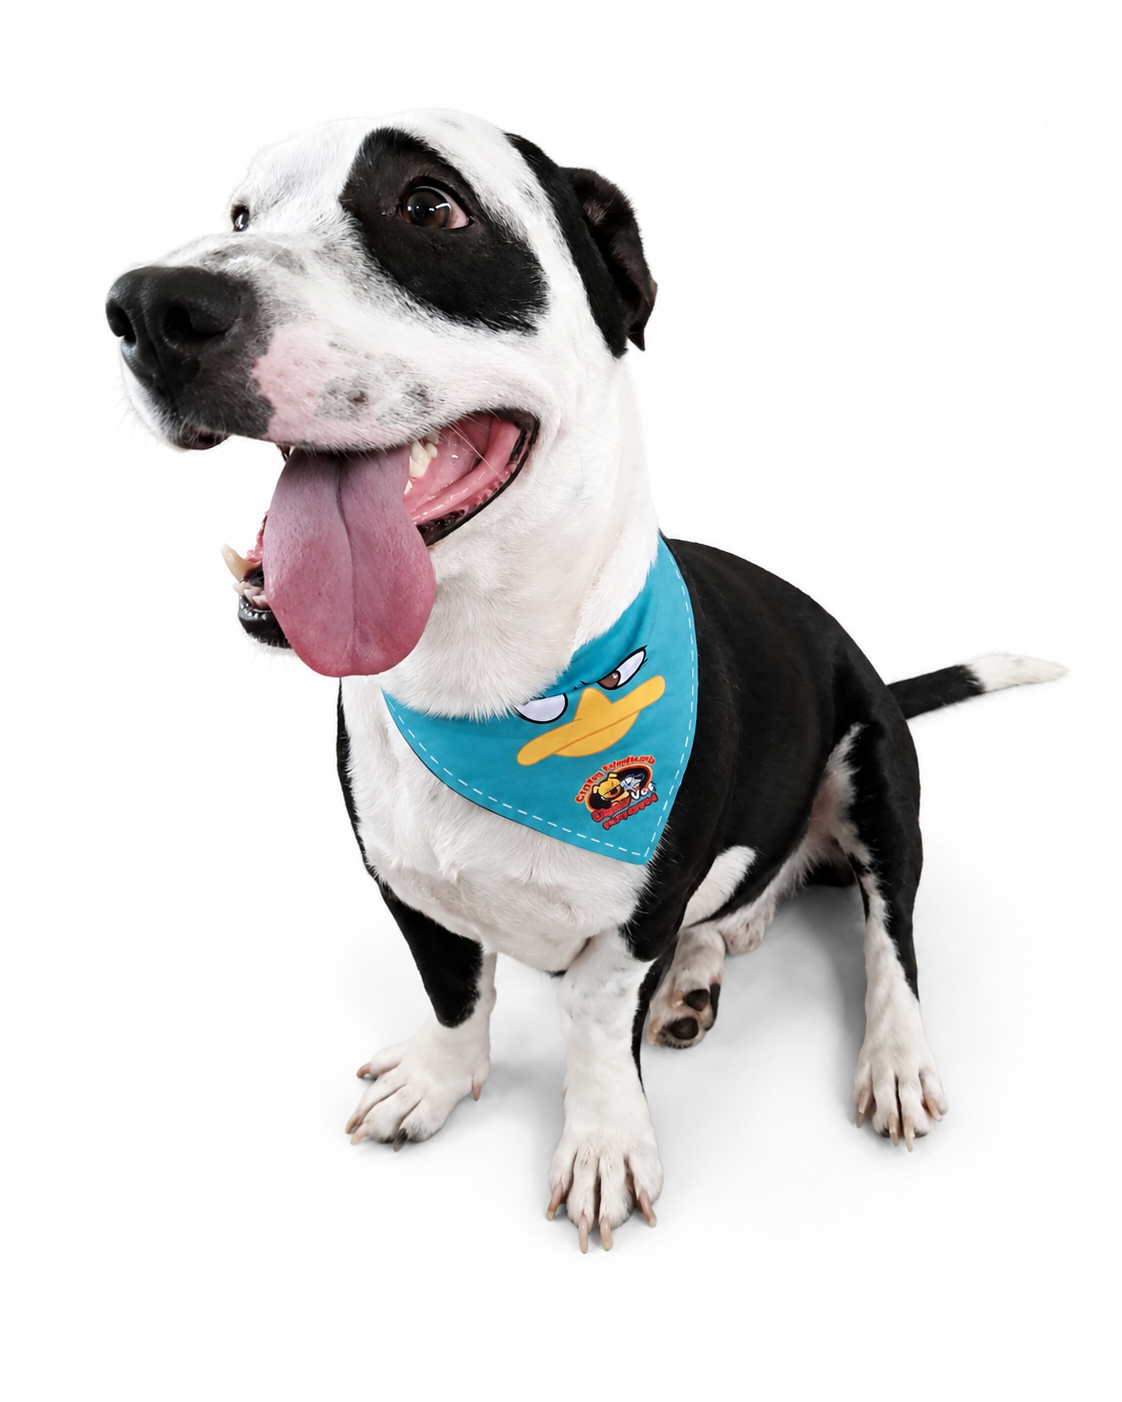
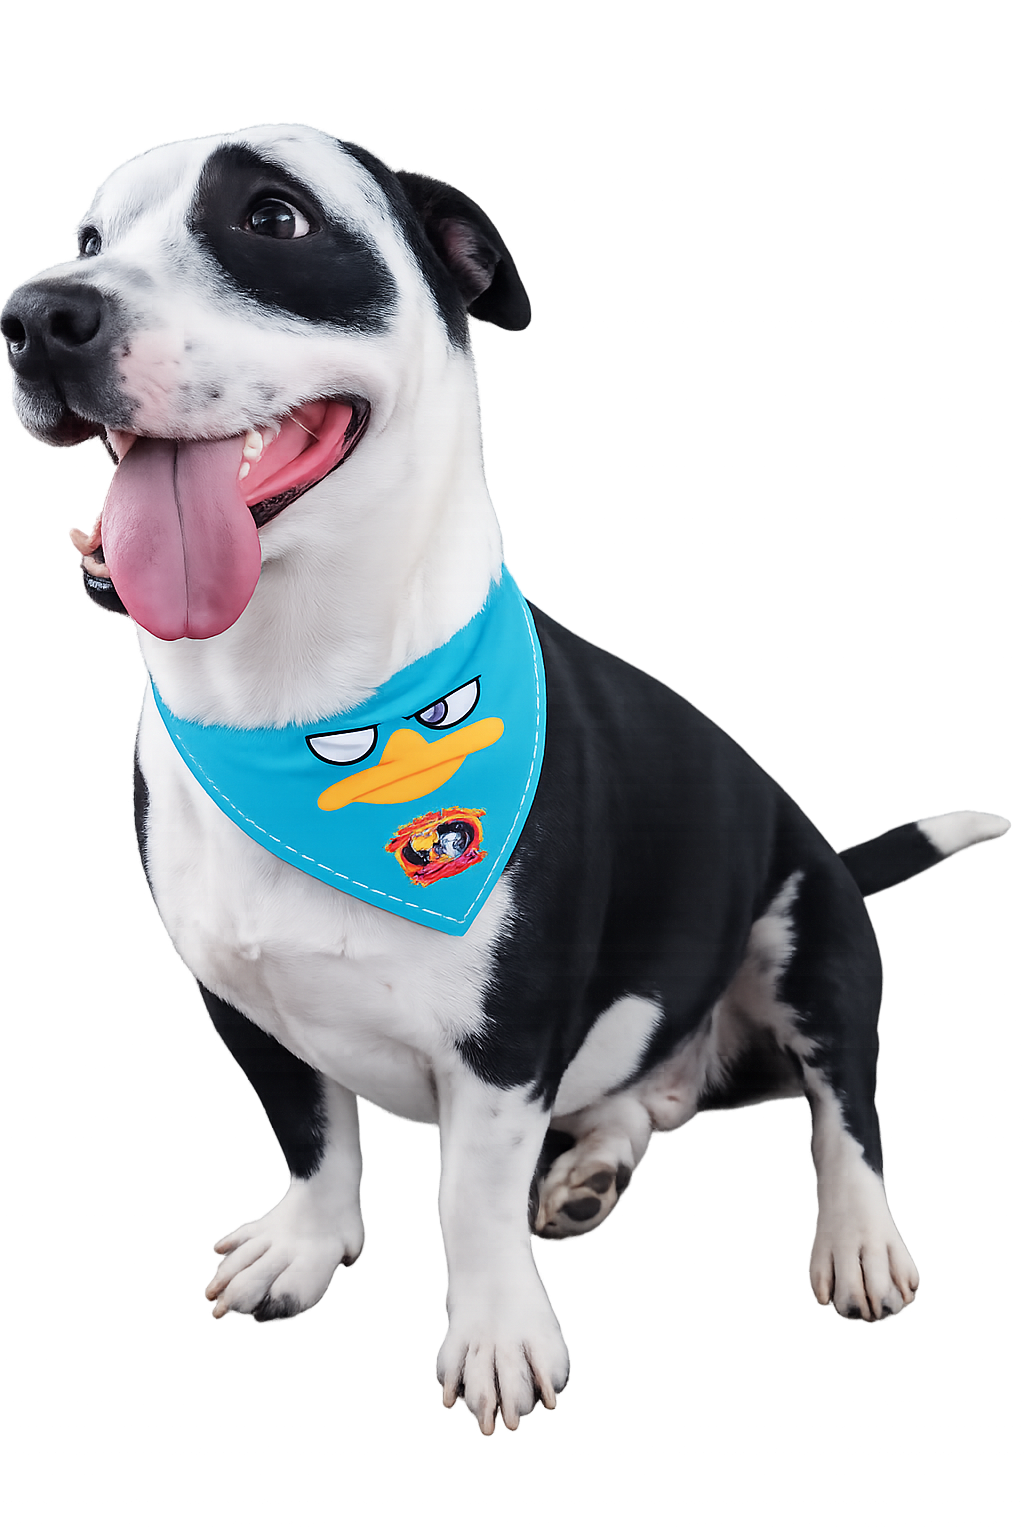
avance

diff --git a/css/style.css b/css/style.css
@@ -404,25 +404,107 @@ body {
   display: flex;
   justify-content: space-between;
   align-items: center;
+  margin-top: 30px;
+
 }
 .promociones-box{
   display: flex;
   justify-content: space-between;
   align-items: center;
+  width: 30%;
+  height: 250px;
+  border-radius: 30px;
+  overflow: hidden;
+
+}
+.promo-verde{
+  background-color: var(--color-verdePrincipal);
+
+}
+.promo-crema{
+  background-color: #F1E7D2;
+}
+.promo-menta{
+  background-color: #CED7C1;
+}
+
+.btn-promociones{
+  background-color: #CED8C2;
+  color: #ffffff;
+  border: none;
+  padding: 10px 20px;
+  border-radius: 30px;
+  font-weight: bold;
+  color: var(--color-verdePrincipal);
+  font-size: 15px;
+}
+.btn-promociones:hover{
+  background-color: #a1f0cd;
+  color: #ffffff;
+  border: none;
+  padding: 10px 20px;
+  border-radius: 30px;
+  font-weight: bold;
+  color: var(--color-verdePrincipal);
+  font-size: 15px;
+  transition: all 0.3 ease;
 }
 
 .descripcion-promociones{
   display: flex;
   flex-direction: column;
-  justify-content: space-between;
+  align-items: center;
+  justify-content: center;
+  padding: 20px 20px 20px 20px;
+}
+.imagen-promociones{
+  display: flex;
+  justify-content: center;
+  align-items: center;
+  height: 100%;
+  flex: 1;
 }
 .imagen-promociones img{
-  width: 400px;
-  height: 400px;
+  max-width: 100%;
+  max-height: 100%;
+  width: auto;
+  height: auto;
   object-fit: contain;
   
-  
 }
+.descripcion-promociones h2{
+  color: white;
+  font-size: 20px;
+  font-weight: bold;
+  margin-bottom: 10px;
+}
+.descripcion-promociones p{
+  color: white;
+  font-size: 20px;
+  font-weight: bold;
+  margin-bottom: 10px;
+}
+
+
+
+
+
+
+
+
+
+
+
+
+
+
+
+
+
+
+
+
+
 
 
 
@@ -538,6 +620,7 @@ body {
   background: #fff;
   border-radius: 6px;
   padding: 4px;
+
 }
 
 /* =====================================

diff --git a/index.html b/index.html
@@ -200,18 +200,18 @@
         </div>
 
         <div class="contenedor-promociones">
-            <div class="promociones-box">
+            <div class="promociones-box promo-verde">
                 <div class="descripcion-promociones">
                     <h2>Alimentos de calidad</h2>
                     <p>Para cada etapa de su vida</p>
                     <button class="btn-promociones">Ver productos</button>
                 </div>
                 <div class="imagen-promociones">
-                    <img src="imagenes/comidas-varias.jpeg" alt="comida varias">
+                    <img src="imagenes/comidas-varias.png" alt="comida varias">
                 </div>
             </div>
 
-            <div class="promociones-box">
+            <div class="promociones-box promo-crema">
                 <div class="descripcion-promociones">
                     <h2>Hasta 20%</h2>
                     <p>de Descuento en seleccionados</p>
@@ -222,7 +222,7 @@
                 </div>
             </div>
 
-            <div class="promociones-box">
+            <div class="promociones-box promo-menta">
                 <div class="descripcion-promociones">
                     <h2>Envio gratis</h2>
                     <p>por compras mayores a S/120</p>
